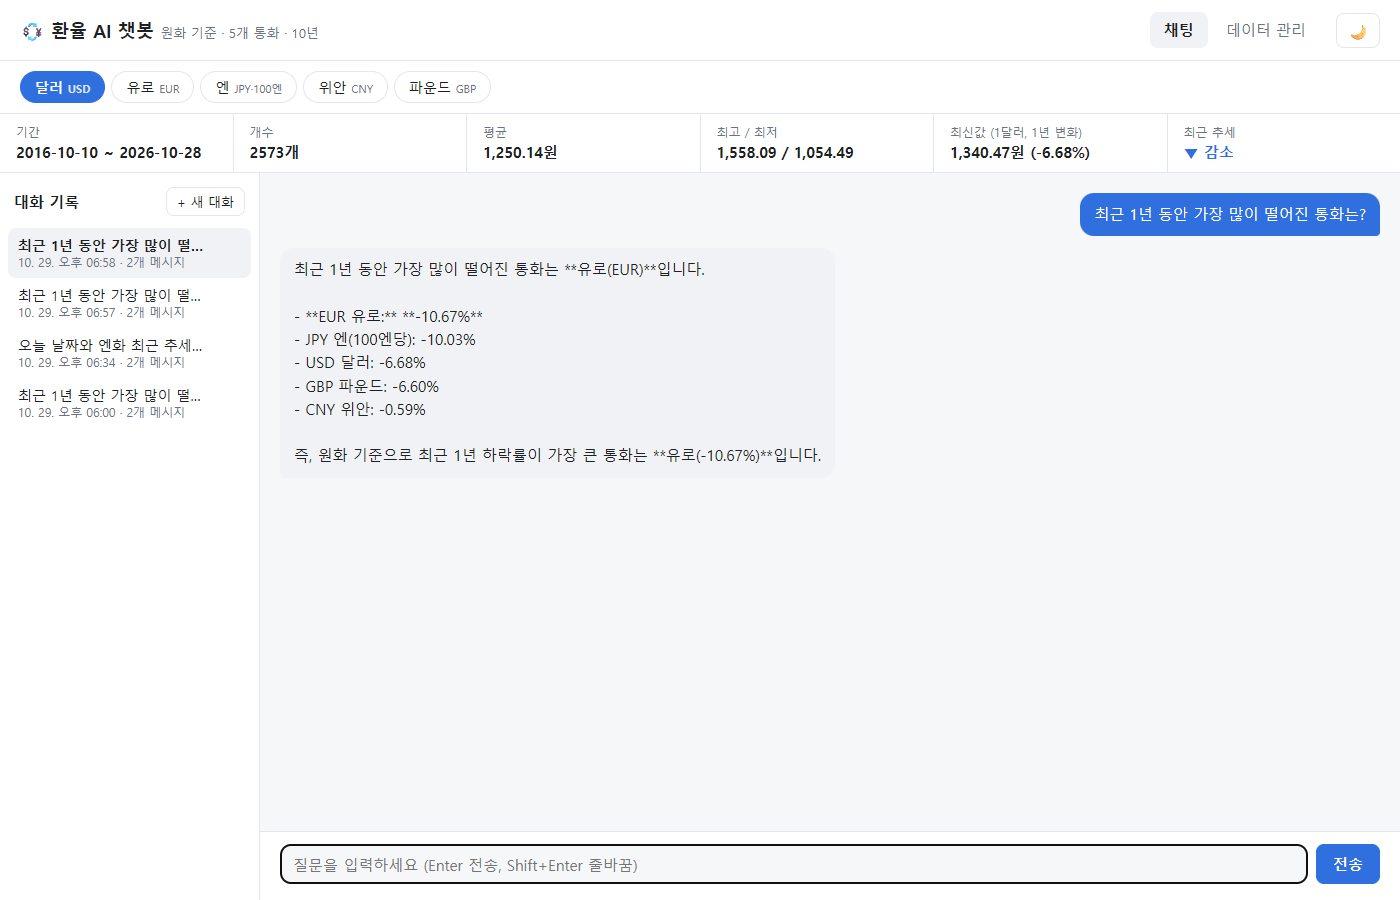
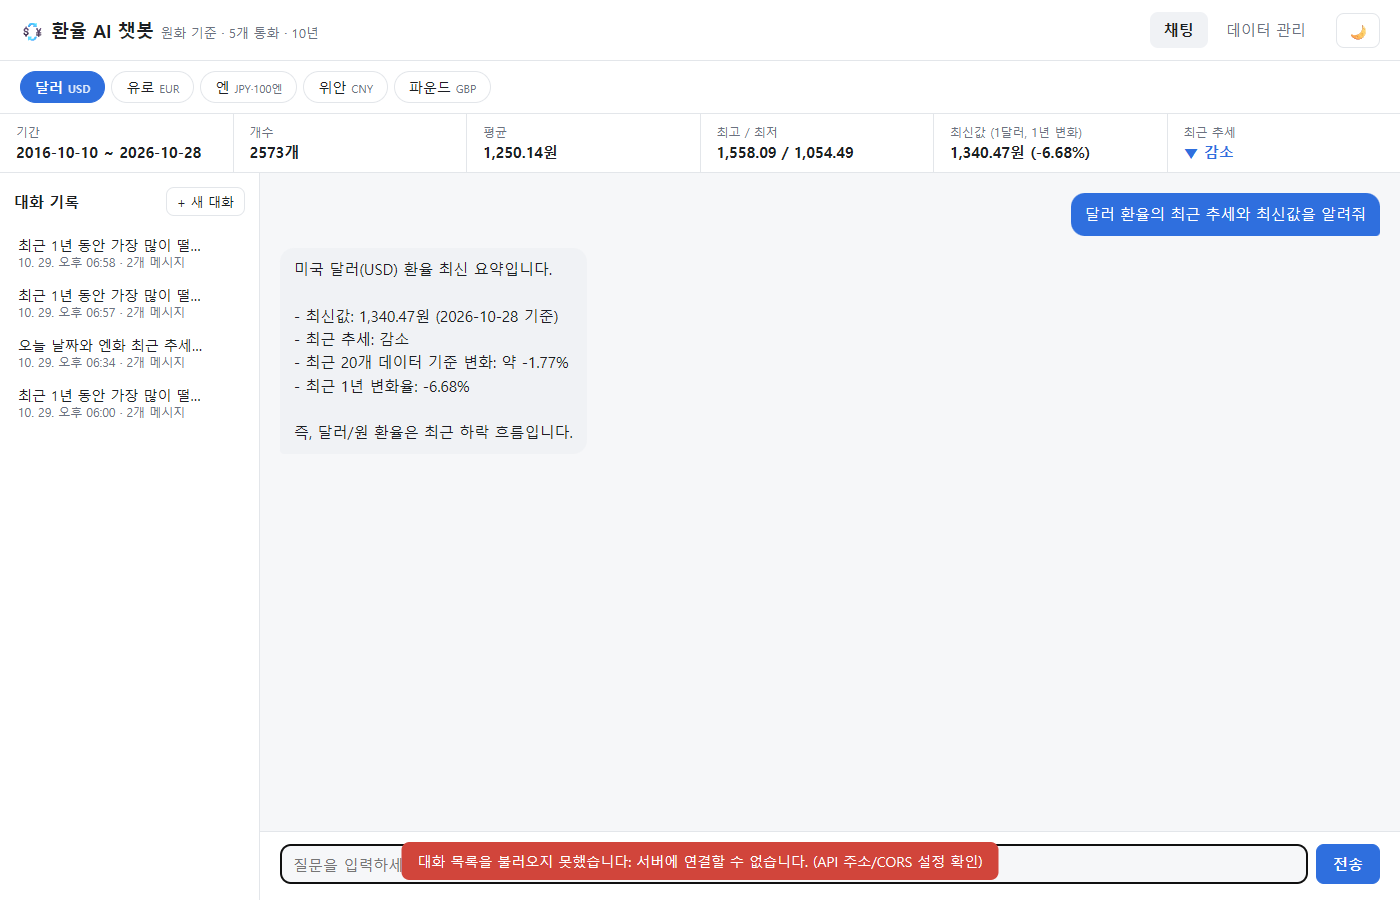
Firestore 읽기 절약: 서버 시작 시 전체 대신 통화별 스냅샷 5건만 읽기
- data_snapshots/{통화}: 통화별 data 전체를 JSON 문자열로 저장
- 캐시 로드: 스냅샷 5건 읽기, 없거나 손상 시에만 전체 읽기 후 스냅샷 생성
- 추가/수정/삭제 시 해당 통화 스냅샷 갱신(통화 변경 시 양쪽)
- seed: 비어 있는지 1건만 확인, 적재 후 스냅샷 생성, --snapshots 옵션
- update_rates --firestore: 스냅샷 기반으로 빠진 날짜만 추가
- 배포/재배포 4회로 일일 읽기 한도(5만) 초과(429)가 난 문제 대응

Claude-Session: https://claude.ai/code/session_012reDJa6YgVvXoRtZS4oGAt

diff --git a/backend/app/services/data_service.py b/backend/app/services/data_service.py
@@ -1,16 +1,22 @@
 """시계열 데이터 CRUD와 분석(요약/통계).
 
-데이터가 1만 건 이상이라 요청마다 Firestore 전체를 읽으면 무료 한도(일 5만 회 읽기)를 금방 넘는다.
-그래서 처음 한 번만 전체를 읽어 메모리에 캐시하고, 추가/수정/삭제 시 캐시도 함께 갱신한다.
+데이터가 1만 건 이상이라 Firestore 전체를 읽으면 무료 한도(일 5만 회 읽기)를 금방 넘는다.
+- 요청은 메모리 캐시에서 처리하고, 추가/수정/삭제 시 캐시도 함께 갱신한다.
+- 캐시를 채울 때는 통화별 스냅샷 문서(data_snapshots/{통화}) 5개만 읽는다.
+  스냅샷이 없을 때만 data 컬렉션 전체를 한 번 읽고 스냅샷을 만든다.
 (Render 무료 플랜은 인스턴스 1개라 캐시 불일치 문제가 없다.)
 """
+import json
+import logging
 import statistics as st
 import threading
 from datetime import date, datetime, timedelta, timezone
 
 from ..currencies import CURRENCIES
-from ..db import DATA_COLLECTION, repo
+from ..db import DATA_COLLECTION, SNAPSHOT_COLLECTION, repo
 from ..schemas import DataCreate, DataUpdate
+
+logger = logging.getLogger(__name__)
 
 TREND_WINDOW = 20  # 최근 추세 판단에 쓰는 데이터 개수
 TREND_THRESHOLD_PCT = 1.0  # 이 비율 이상 움직이면 증가/감소로 본다
@@ -21,17 +27,55 @@ def _now() -> str:
 
 
 _cache: dict[str, dict] | None = None
-_cache_lock = threading.Lock()
+_cache_lock = threading.RLock()
+
+
+def _load_snapshots() -> dict[str, dict] | None:
+    """통화별 스냅샷 5개를 읽는다. 하나라도 없거나 깨져 있으면 None."""
+    docs: dict[str, dict] = {}
+    for currency in CURRENCIES:
+        snap = repo.get(SNAPSHOT_COLLECTION, currency)
+        if snap is None:
+            return None
+        try:
+            items = json.loads(snap["payload"])
+        except (KeyError, TypeError, ValueError):
+            logger.warning("스냅샷 %s 이 손상되어 전체를 다시 읽습니다.", currency)
+            return None
+        docs.update({i["id"]: i for i in items})
+    return docs
+
+
+def _write_snapshot(currency: str) -> None:
+    items = sorted((i for i in _all().values() if i["currency"] == currency), key=lambda i: i["date"])
+    repo.set(
+        SNAPSHOT_COLLECTION,
+        currency,
+        {
+            # 배열 대신 문자열로 저장한다(배열 필드는 항목마다 색인돼 문서당 색인 한도를 넘는다).
+            "payload": json.dumps(items, ensure_ascii=False, separators=(",", ":")),
+            "count": len(items),
+            "updated_at": _now(),
+        },
+    )
 
 
 def _all() -> dict[str, dict]:
     global _cache
     with _cache_lock:
         if _cache is None:
-            docs = repo.list(DATA_COLLECTION)
-            for d in docs:
-                d.setdefault("currency", "USD")  # currency 필드 도입 이전 문서 호환
-            _cache = {d["id"]: d for d in docs}
+            docs = _load_snapshots()
+            if docs is not None:
+                _cache = docs
+                logger.info("스냅샷에서 데이터 %d건을 불러왔습니다(읽기 %d회).", len(docs), len(CURRENCIES))
+            else:
+                full = repo.list(DATA_COLLECTION)
+                for d in full:
+                    d.setdefault("currency", "USD")  # currency 필드 도입 이전 문서 호환
+                _cache = {d["id"]: d for d in full}
+                logger.info("data 컬렉션 전체 %d건을 읽어 스냅샷을 만듭니다.", len(full))
+                for currency in CURRENCIES:
+                    _write_snapshot(currency)
         return _cache
 
 
@@ -39,6 +83,30 @@ def reset_cache() -> None:
     global _cache
     with _cache_lock:
         _cache = None
+
+
+def add_many_data(rows: list[dict]) -> int:
+    """여러 건을 data 컬렉션에 추가하고 캐시와 해당 통화 스냅샷을 갱신한다(스크립트용)."""
+    if not rows:
+        return 0
+    with _cache_lock:
+        cache = _all()
+        for saved in repo.add_many(DATA_COLLECTION, rows):
+            cache[saved["id"]] = saved
+        for currency in {r["currency"] for r in rows}:
+            _write_snapshot(currency)
+    return len(rows)
+
+
+def rebuild_snapshots(docs: list[dict] | None = None) -> None:
+    """스냅샷을 새로 만든다. docs를 주면 그 목록으로, 없으면 data 컬렉션 전체를 다시 읽어서 만든다."""
+    global _cache
+    with _cache_lock:
+        if docs is None:
+            docs = repo.list(DATA_COLLECTION)
+        _cache = {d["id"]: {**d, "currency": d.get("currency", "USD")} for d in docs}
+        for currency in CURRENCIES:
+            _write_snapshot(currency)
 
 
 def list_data(currency: str | None = None, start: str | None = None, end: str | None = None) -> list[dict]:
@@ -57,8 +125,11 @@ def create_data(payload: DataCreate) -> dict:
     doc = {"date": payload.date.isoformat(), "currency": payload.currency, "value": payload.value,
            "memo": payload.memo,
            "created_at": now, "updated_at": now}
-    saved = repo.add(DATA_COLLECTION, doc)
-    _all()[saved["id"]] = saved
+    with _cache_lock:
+        cache = _all()
+        saved = repo.add(DATA_COLLECTION, doc)
+        cache[saved["id"]] = saved
+        _write_snapshot(saved["currency"])
     return saved
 
 
@@ -69,17 +140,27 @@ def update_data(doc_id: str, payload: DataUpdate) -> dict | None:
     if "memo" in changes:
         changes["memo"] = changes["memo"].strip()
     changes["updated_at"] = _now()
-    updated = repo.update(DATA_COLLECTION, doc_id, changes)
-    if updated is not None:
-        updated.setdefault("currency", "USD")
-        _all()[doc_id] = updated
+    with _cache_lock:
+        cache = _all()
+        updated = repo.update(DATA_COLLECTION, doc_id, changes)
+        if updated is not None:
+            updated.setdefault("currency", "USD")
+            before = cache.get(doc_id)
+            cache[doc_id] = updated
+            # 통화가 바뀌면 원래 통화의 스냅샷도 고친다
+            for currency in {updated["currency"], before["currency"] if before else updated["currency"]}:
+                _write_snapshot(currency)
     return updated
 
 
 def delete_data(doc_id: str) -> bool:
-    deleted = repo.delete(DATA_COLLECTION, doc_id)
-    if deleted:
-        _all().pop(doc_id, None)
+    with _cache_lock:
+        cache = _all()
+        deleted = repo.delete(DATA_COLLECTION, doc_id)
+        if deleted:
+            removed = cache.pop(doc_id, None)
+            if removed:
+                _write_snapshot(removed["currency"])
     return deleted
 
 

diff --git a/backend/scripts/seed.py b/backend/scripts/seed.py
@@ -1,11 +1,12 @@
-"""data/fx_krw.csv (5개 통화 × 10년, 약 1.3만 건)를 Firestore data 컬렉션에 넣는다.
+"""data/fx_krw.csv (5개 통화 × 10년, 약 1.3만 건)를 Firestore data 컬렉션에 넣고 스냅샷을 만든다.
 
-주의: Firestore 무료 한도는 하루 쓰기 2만 회다. 한 번 적재에 약 1.3만 회를 쓰므로
---force 재적재(삭제 1.3만 + 쓰기 1.3만)는 하루 한도를 넘을 수 있다.
+주의: Firestore 무료 한도는 하루 쓰기 2만 회, 읽기 5만 회다. 한 번 적재에 쓰기 약 1.3만 회를 쓰므로
+--force 재적재(읽기 1.3만 + 삭제 1.3만 + 쓰기 1.3만)는 하루 한도를 넘을 수 있다.
 
 사용법 (backend 폴더에서):
-    python -m scripts.seed            # 컬렉션이 비어 있을 때만 넣기
-    python -m scripts.seed --force    # 기존 데이터를 지우고 다시 넣기
+    python -m scripts.seed                # 컬렉션이 비어 있을 때만 넣기
+    python -m scripts.seed --force        # 기존 데이터를 지우고 다시 넣기
+    python -m scripts.seed --snapshots    # 데이터는 그대로 두고 스냅샷만 다시 만들기(전체 읽기 1회)
 """
 import csv
 import sys
@@ -13,6 +14,7 @@ from datetime import datetime, timezone
 from pathlib import Path
 
 from app.db import DATA_COLLECTION, repo
+from app.services import data_service
 
 CSV_PATH = Path(__file__).resolve().parent.parent / "data" / "fx_krw.csv"
 
@@ -20,10 +22,19 @@ CSV_PATH = Path(__file__).resolve().parent.parent / "data" / "fx_krw.csv"
 def main():
     if repo.backend != "firestore":
         sys.exit("Firebase 자격 증명이 없습니다. .env 의 FIREBASE_SERVICE_ACCOUNT_* 를 설정하세요.")
-    existing = repo.list(DATA_COLLECTION)
-    if existing and "--force" not in sys.argv:
-        sys.exit(f"이미 {len(existing)}개 데이터가 있습니다. 덮어쓰려면 --force 를 붙이세요.")
-    repo.delete_many(DATA_COLLECTION, [d["id"] for d in existing])
+
+    if "--snapshots" in sys.argv:
+        data_service.rebuild_snapshots()
+        print("스냅샷을 다시 만들었습니다.")
+        return
+
+    # 비어 있는지는 1건만 읽어서 확인한다
+    has_data = any(True for _ in repo.client.collection(DATA_COLLECTION).limit(1).stream())
+    if has_data and "--force" not in sys.argv:
+        sys.exit("이미 데이터가 있습니다. 덮어쓰려면 --force 를 붙이세요.")
+    if has_data:
+        existing = repo.list(DATA_COLLECTION)
+        repo.delete_many(DATA_COLLECTION, [d["id"] for d in existing])
 
     now = datetime.now(timezone.utc).isoformat(timespec="seconds")
     with CSV_PATH.open(encoding="utf-8") as f:
@@ -32,7 +43,9 @@ def main():
              "created_at": now, "updated_at": now}
             for r in csv.DictReader(f)
         ]
-    print(f"{repo.add_many(DATA_COLLECTION, rows)}개 데이터를 저장했습니다.")
+    saved = repo.add_many(DATA_COLLECTION, rows)
+    data_service.rebuild_snapshots(saved)
+    print(f"{len(saved)}개 데이터를 저장하고 스냅샷을 만들었습니다.")
 
 
 if __name__ == "__main__":

diff --git a/backend/app/db.py b/backend/app/db.py
@@ -17,6 +17,8 @@ logger = logging.getLogger(__name__)
 
 DATA_COLLECTION = "data"
 CONVERSATIONS_COLLECTION = "conversations"
+# 통화별 전체 데이터를 JSON 문자열 하나로 담은 문서. 서버 시작 시 1.3만 건 대신 5건만 읽기 위함.
+SNAPSHOT_COLLECTION = "data_snapshots"
 
 
 class FirestoreRepo:
@@ -37,6 +39,9 @@ class FirestoreRepo:
         ref.set(data)
         return {"id": ref.id, **data}
 
+    def set(self, collection: str, doc_id: str, data: dict[str, Any]) -> None:
+        self.client.collection(collection).document(doc_id).set(data)
+
     def update(self, collection: str, doc_id: str, data: dict[str, Any]) -> dict[str, Any] | None:
         ref = self.client.collection(collection).document(doc_id)
         if not ref.get().exists:
@@ -51,14 +56,17 @@ class FirestoreRepo:
         ref.delete()
         return True
 
-    def add_many(self, collection: str, items: list[dict[str, Any]]) -> int:
+    def add_many(self, collection: str, items: list[dict[str, Any]]) -> list[dict[str, Any]]:
         # Firestore batch는 최대 500건
+        saved = []
         for i in range(0, len(items), 400):
             batch = self.client.batch()
             for item in items[i : i + 400]:
-                batch.set(self.client.collection(collection).document(), item)
+                ref = self.client.collection(collection).document()
+                batch.set(ref, item)
+                saved.append({"id": ref.id, **item})
             batch.commit()
-        return len(items)
+        return saved
 
     def delete_many(self, collection: str, doc_ids: list[str]) -> int:
         for i in range(0, len(doc_ids), 400):
@@ -90,6 +98,9 @@ class MemoryRepo:
         self._col(collection)[doc_id] = deepcopy(data)
         return {"id": doc_id, **data}
 
+    def set(self, collection: str, doc_id: str, data: dict[str, Any]) -> None:
+        self._col(collection)[doc_id] = deepcopy(data)
+
     def update(self, collection: str, doc_id: str, data: dict[str, Any]) -> dict[str, Any] | None:
         col = self._col(collection)
         if doc_id not in col:
@@ -100,10 +111,8 @@ class MemoryRepo:
     def delete(self, collection: str, doc_id: str) -> bool:
         return self._col(collection).pop(doc_id, None) is not None
 
-    def add_many(self, collection: str, items: list[dict[str, Any]]) -> int:
-        for item in items:
-            self.add(collection, item)
-        return len(items)
+    def add_many(self, collection: str, items: list[dict[str, Any]]) -> list[dict[str, Any]]:
+        return [self.add(collection, item) for item in items]
 
     def delete_many(self, collection: str, doc_ids: list[str]) -> int:
         return sum(self.delete(collection, d) for d in doc_ids)

diff --git a/backend/scripts/update_rates.py b/backend/scripts/update_rates.py
@@ -73,12 +73,14 @@ def update_csv() -> None:
 
 
 def update_firestore() -> None:
-    from app.db import DATA_COLLECTION, repo
+    from app.db import repo
+    from app.services import data_service
 
     if repo.backend != "firestore":
         sys.exit("Firebase 자격 증명이 없습니다. .env 의 FIREBASE_SERVICE_ACCOUNT_* 를 설정하세요.")
-    docs = repo.list(DATA_COLLECTION)
-    existing = {(d["date"], d.get("currency", "USD")) for d in docs}
+    # 스냅샷 5건만 읽어 현재 데이터를 파악한다(전체 1.3만 건을 읽지 않음)
+    docs = data_service.list_data()
+    existing = {(d["date"], d["currency"]) for d in docs}
     last_dates: dict[str, str] = {}
     for d, c in existing:
         last_dates[c] = max(last_dates.get(c, ""), d)
@@ -88,8 +90,8 @@ def update_firestore() -> None:
         print("추가할 데이터가 없습니다. 이미 최신입니다.")
         return
     now = datetime.now(timezone.utc).isoformat(timespec="seconds")
-    repo.add_many(DATA_COLLECTION, [{**r, "created_at": now, "updated_at": now} for r in new])
-    print(f"Firestore에 {len(new)}개를 추가했습니다. (서버를 재시작해야 캐시에 반영됩니다)")
+    data_service.add_many_data([{**r, "created_at": now, "updated_at": now} for r in new])
+    print(f"Firestore에 {len(new)}개를 추가하고 스냅샷을 갱신했습니다. (실행 중인 서버는 재시작해야 반영됩니다)")
 
 
 if __name__ == "__main__":
